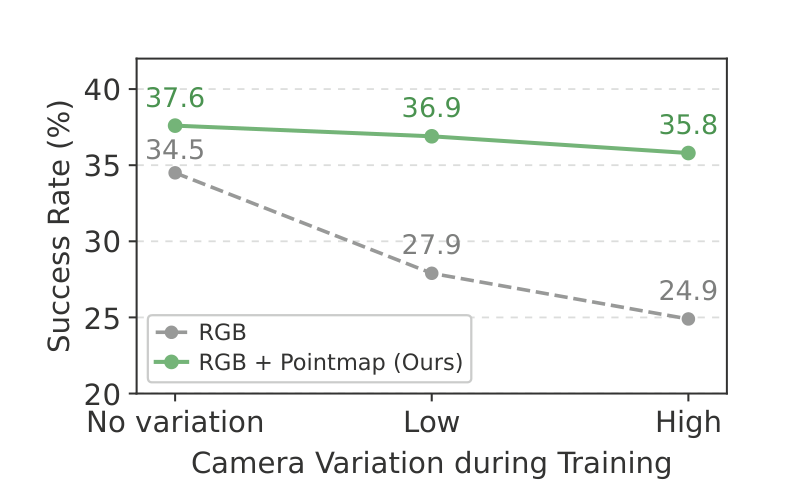
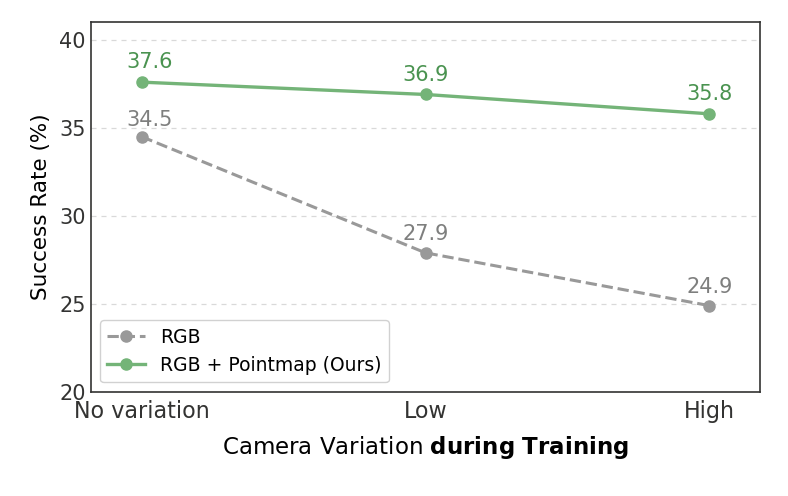
Composite clips shown below episode grids, bold during Training in robustness chart

diff --git a/index.html b/index.html
@@ -391,7 +391,7 @@
   </figure>
   <div class="evidence-row" style="max-width: 880px;">
     <figure style="margin: 0;">
-      <img src="static/images/fig6_robustness.png?v=4" alt="On the same axes as the intro chart, RGB + Pointmap decreases from 37.6% to 35.8% while RGB-only decreases from 34.5% to 24.9%.">
+      <img src="static/images/fig6_robustness.png?v=5" alt="On the same axes as the intro chart, RGB + Pointmap decreases from 37.6% to 35.8% while RGB-only decreases from 34.5% to 24.9%.">
     </figure>
     <div>
       <div class="stat-line">
@@ -631,6 +631,25 @@
         <div class="roll-cell"><span class="roll-label ok">&pi;<sub>0.5</sub> + Pointmap &#10003;</span>
           <video autoplay muted loop playsinline><source src="static/videos/rollouts/unseen_close_pmp2.mp4" type="video/mp4"></video></div>
       </div>
+    </div>
+  </div>
+
+  <p class="body-text" style="font-size: 15.5px; color: var(--muted); margin-top: 40px;">
+    The same rollouts as composite clips, as shown in the supplementary video.
+  </p>
+
+  <div class="task-block">
+    <div class="vid-pair">
+      <div><div class="vid-tag unseen">Stack blocks</div>
+        <video autoplay muted loop playsinline controls><source src="static/videos/unseen_stack.mp4?v=2" type="video/mp4"></video></div>
+      <div><div class="vid-tag unseen">Pick &amp; place</div>
+        <video autoplay muted loop playsinline controls><source src="static/videos/unseen_pnp.mp4?v=2" type="video/mp4"></video></div>
+    </div>
+    <div class="vid-pair" style="margin-top: 14px;">
+      <div><div class="vid-tag unseen">Open drawer</div>
+        <video autoplay muted loop playsinline controls><source src="static/videos/unseen_open.mp4?v=2" type="video/mp4"></video></div>
+      <div><div class="vid-tag unseen">Close drawer</div>
+        <video autoplay muted loop playsinline controls><source src="static/videos/unseen_close.mp4?v=2" type="video/mp4"></video></div>
     </div>
   </div>
 